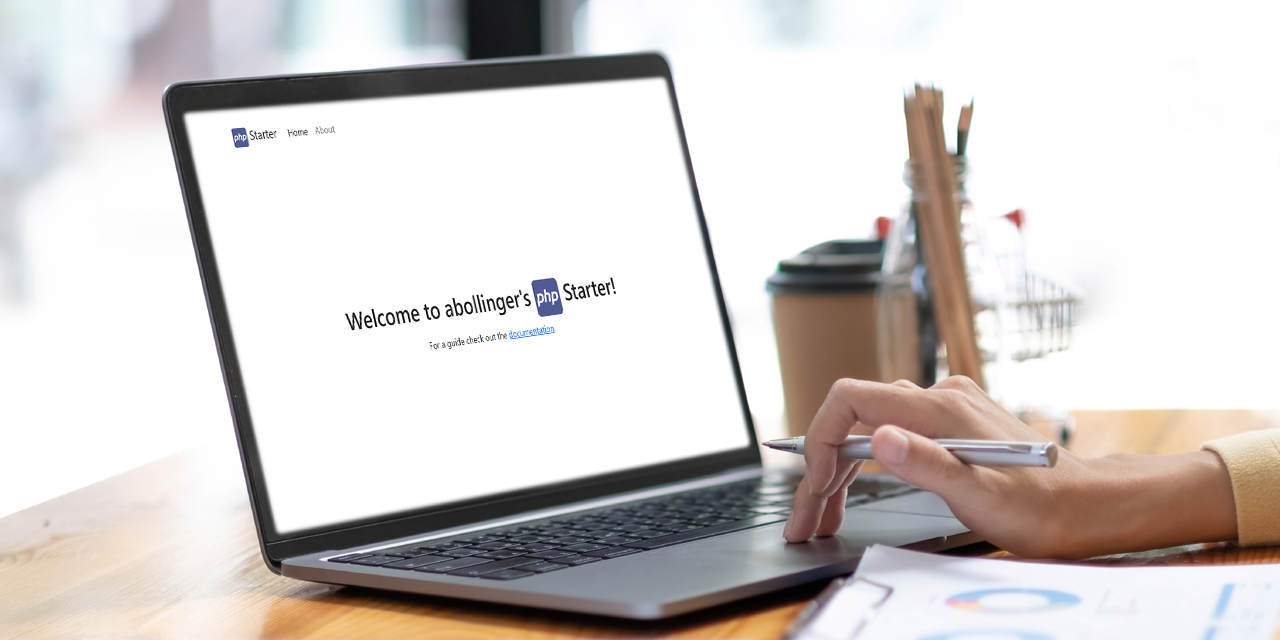
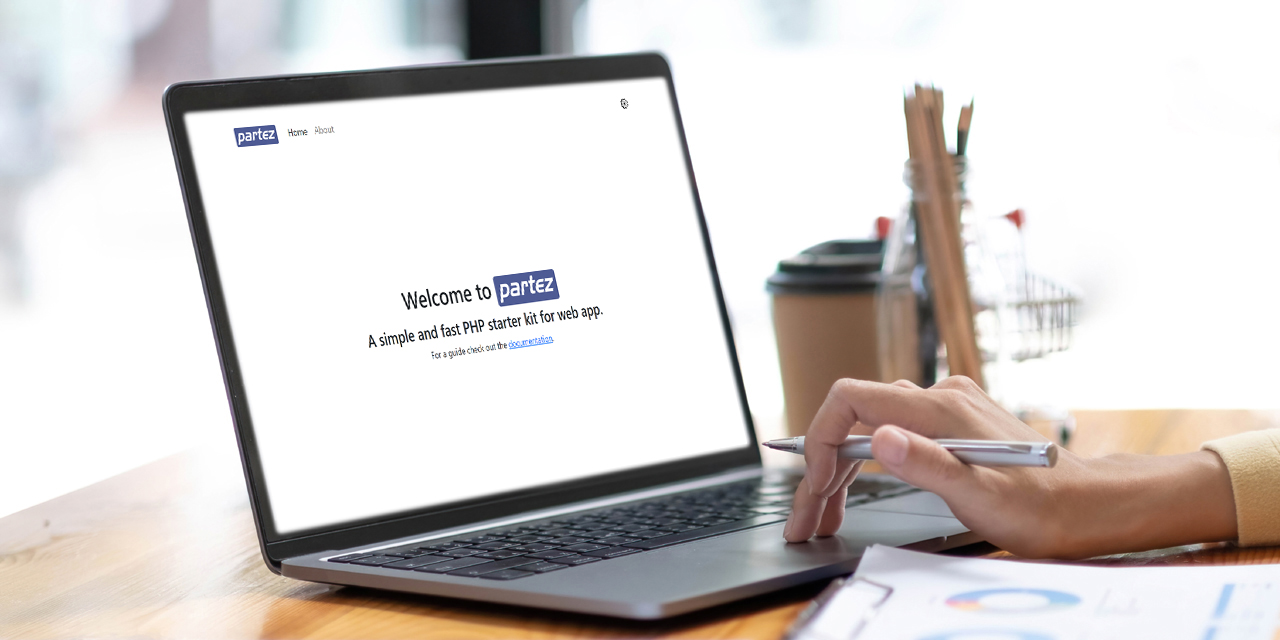
📝 README

Changed region(s): [[0.25, 0.4062, 0.5, 0.5625], [0.1875, 0.1875, 0.25, 0.25]]

diff --git a/README.md b/README.md
@@ -7,12 +7,12 @@
     </p>
 </p>
 
-[![Total Downloads](https://img.shields.io/packagist/dt/abollinger/php-starter)](https://packagist.org/packages/abollinger/php-starter)
-[![Latest Stable Version](https://img.shields.io/packagist/v/abollinger/php-starter)](https://packagist.org/packages/abollinger/php-starter)
-[![License](https://img.shields.io/packagist/l/abollinger/php-starter)](https://packagist.org/packages/abollinger/php-starter)
+[![Total Downloads](https://img.shields.io/packagist/dt/abollinger/partez)](https://packagist.org/packages/abollinger/partez)
+[![Latest Stable Version](https://img.shields.io/packagist/v/abollinger/partez)](https://packagist.org/packages/abollinger/partez)
+[![License](https://img.shields.io/packagist/l/abollinger/partez)](https://packagist.org/packages/abollinger/partez)
 
 This kit is meant to help developpers to quickly create a basic PHP app with router.
-This project is published on **[Packagist](https://packagist.org/packages/abollinger/php-starter)** so you can use it via composer.
+This project is published on **[Packagist](https://packagist.org/packages/abollinger/partez)** so you can use it via composer.
 
 ![Home](public/images/preview.jpg)
 
